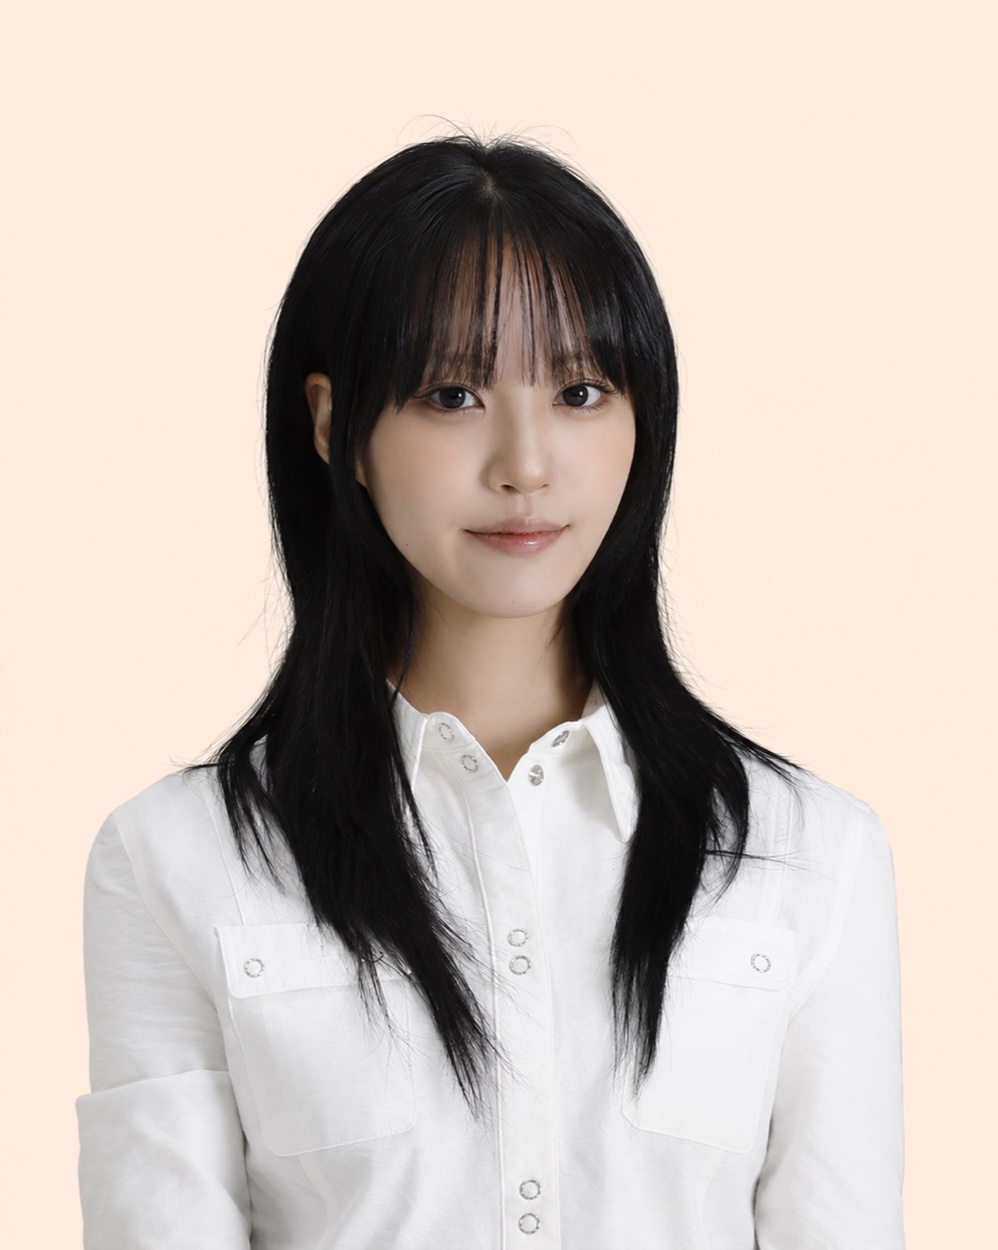
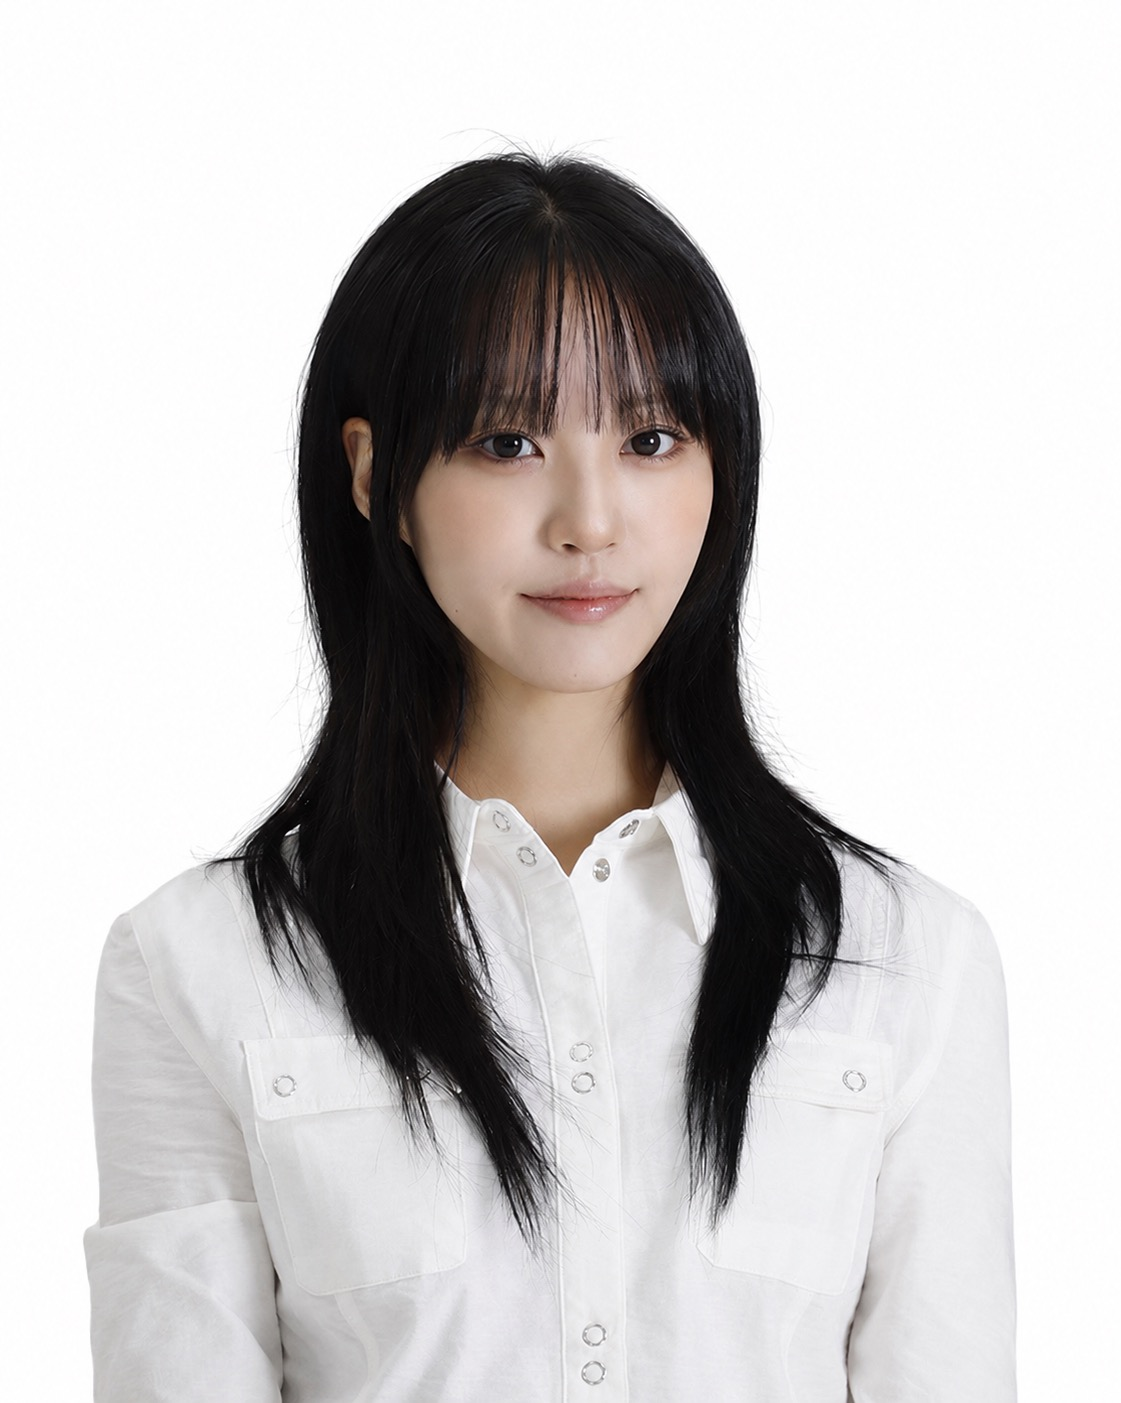
Replace the portfolio profile portrait

diff --git a/index.html b/index.html
@@ -60,7 +60,7 @@
         <div class="profile-portrait">
           <h2 id="profile-title">경험의 실</h2>
           <p class="section-description">중요한 이력 사항 묶어서 보기</p>
-          <img class="profile-photo" src="./assets/seoyeong-portrait.jpg" alt="정서영 프로필 사진" width="998" height="1250" loading="lazy">
+          <img class="profile-photo" src="./assets/seoyeong-portrait.jpg?v=white-portrait" alt="정서영 프로필 사진" width="1121" height="1403" loading="lazy">
         </div>
         <div class="profile-content">
           <h3 class="profile-slogan">실마리를 찾아 근거로 매듭짓는 정서영입니다.</h3>
@@ -98,7 +98,7 @@
 
     <div data-page="about" hidden>
       <section class="about-profile container" aria-labelledby="about-title"><h1 id="about-title">실마리를 찾아 근거로 매듭짓는 정서영입니다.</h1>
-        <div class="about-profile-grid"><div class="about-portraits"><img src="./assets/seoyeong-portrait.jpg" alt="정서영 프로필 사진" width="998" height="1250"><div class="about-photo-placeholder" role="img" aria-label="두 번째 소개 이미지 준비 영역">img</div></div>
+        <div class="about-profile-grid"><div class="about-portraits"><img src="./assets/seoyeong-portrait.jpg?v=white-portrait" alt="정서영 프로필 사진" width="1121" height="1403"><div class="about-photo-placeholder" role="img" aria-label="두 번째 소개 이미지 준비 영역">img</div></div>
         <div class="document-links"><a class="document-button" href="./assets/seoyeong-resume-and-letter.docx" download="정서영_이력서_자기소개서.docx">이력서 · 경험의 실 담아가기</a><a class="document-button" href="./assets/seoyeong-resume-and-letter.docx" download="정서영_이력서_자기소개서.docx">자기소개서 · 생각의 매듭 담아가기</a></div>
         <div class="about-profile-copy"><p>작은 불편을 발견하는 일이 기획의 시작이라고 생각합니다.<br>
 사용자의 이야기에서 얻은 단서를 구체적인 해결 방법으로 발전시키고,<br>
